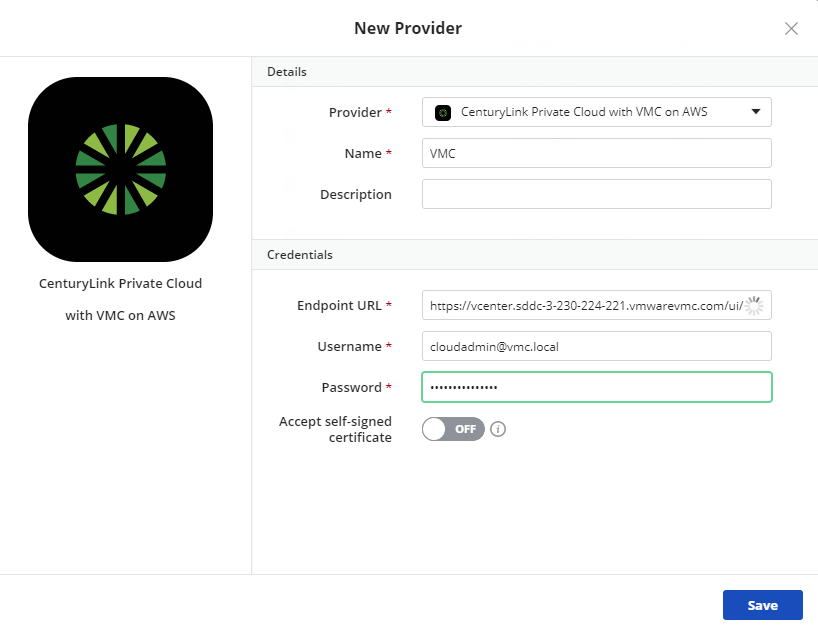
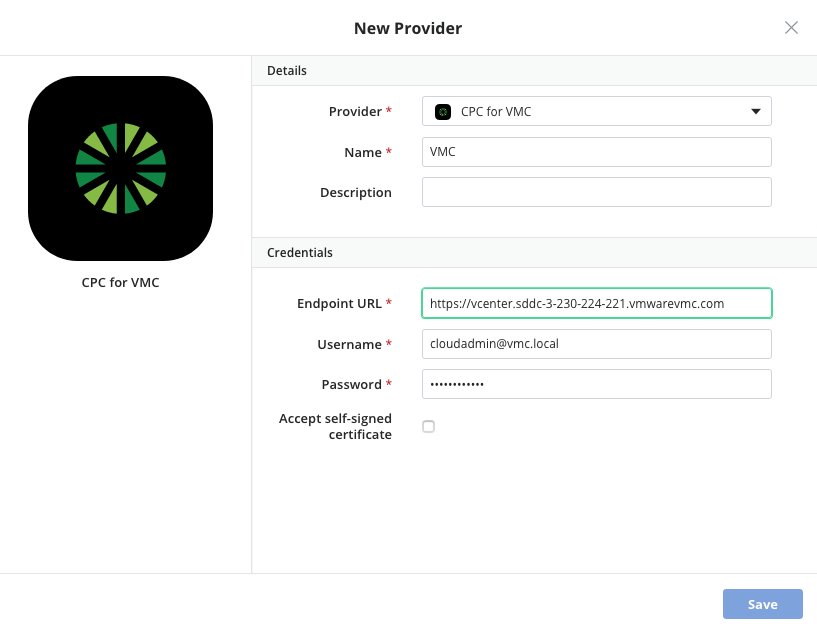
Update name and screenshot

diff --git a/Cloud Application Manager/Deploying Anywhere/using-centurylink-private-cloud-for-vmc-on-aws.md b/Cloud Application Manager/Deploying Anywhere/using-centurylink-private-cloud-for-vmc-on-aws.md
@@ -1,7 +1,7 @@
-{{{ "title": "Using the CenturyLink Private Cloud with VMC on AWS",
+{{{ "title": "Using the CenturyLink Private Cloud for VMWare Cloud on AWS",
 "date": "01-08-2020",
 "author": "Guillermo Sanchez",
-"keywords": ["cam", "cloud application manager", "vmware", "aws", "vmc", "cpc", "centurylink private cloud"],
+"keywords": ["cam", "cloud application manager", "vmware cloud", "aws", "vmc", "cpc", "centurylink private cloud"],
 "attachments": [],
 "contentIsHTML": false
 }}}
@@ -20,16 +20,16 @@
 
 ### Overview
 
-This article is meant to assist users of Cloud Application Manager to configure a CenturyLink Private Cloud with VMC on AWS provider, then deploy or register a virtual machines with it.
+This article is meant to assist users of Cloud Application Manager to configure a CenturyLink Private Cloud for VMWare Cloud on AWS (CPC for VMC) provider, then deploy or register a virtual machines with it.
 
 ### Audience
 
-All users of Cloud Application Manager using CenturyLink Private Cloud with VMC on AWS providers.
+All users of Cloud Application Manager using CenturyLink Private Cloud for VMWare Cloud on AWS providers.
 
 ### Prerequisites
 
 * An active *Cloud Application Manager* account
-* Access and credentials to a **CenturyLink Private Cloud with VMC on AWS**.
+* Access and credentials to a **CenturyLink Private Cloud for VMWare Cloud on AWS**.
 * A virtual machine template (Linux or Windows) on the VMC. Virtual machine templates have to be bootstrapped with the Cloud Application Manager Agent.
 * If the VMC is behind a firewall, the following ports have to be open on the firewall:
   * **443/TCP incoming to VMC server**: for Cloud Application Manager to make API calls on VMC.
@@ -89,7 +89,7 @@ Follow these steps to run a script that creates a scheduled task on a Windows Se
 
 4. Right-click the script and click **Run PowerShell**.
 
-### Registering a CenturyLink Private Cloud with VMC on AWS provider in Cloud Application Manager
+### Registering a CenturyLink Private Cloud for VMWare Cloud on AWS provider in Cloud Application Manager
 
 In order to deploy to a VMC on AWS, you must first provide information to connect.
 
@@ -97,7 +97,7 @@ In order to deploy to a VMC on AWS, you must first provide information to connec
 
 1. In Cloud Application Manager, click **Providers** > **New Provider**.
 
-2. Select **CenturyLink Private Cloud with VMC on AWS**.
+2. Select **CPC for VMC** provider type.
 
 3. Enter the endpoint URL for the VMC server and a username, password to the VMC API.
    * **Note:** The endpoint URL can be a hostname or an IP address, and has to be prefixed with **<https://>**. Be sure to use https and not http.
